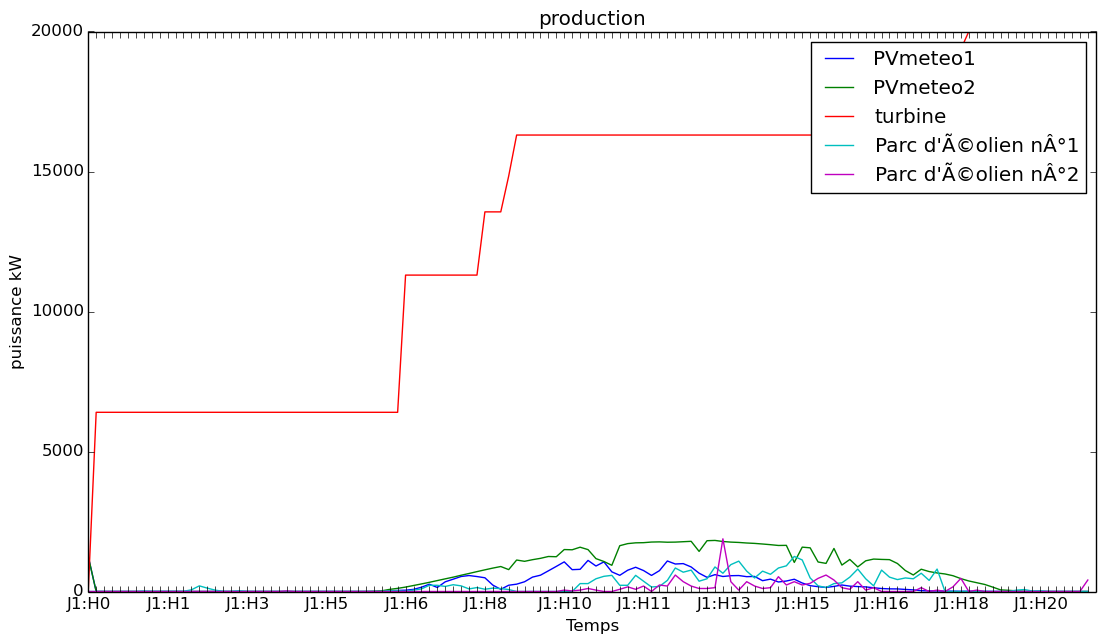
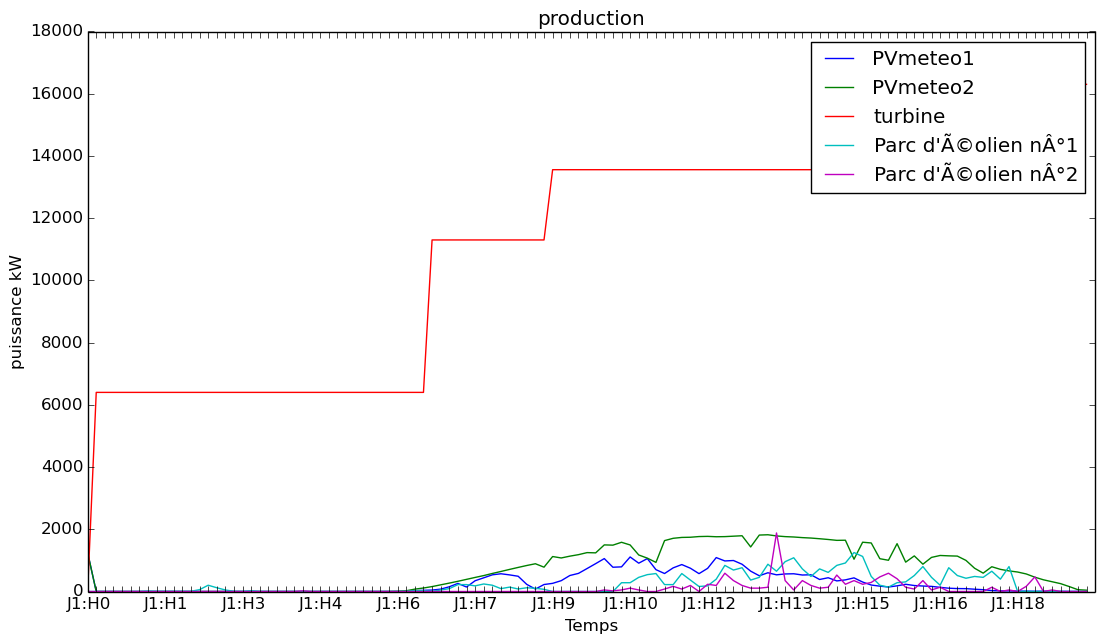
mode

diff --git a/analyseur.py b/analyseur.py
@@ -3,9 +3,9 @@ import MySQLdb
 import matplotlib.pyplot as plt
 from Ville import Ville
 from Utilitaire.heure import Utilitaire
-from numpy import where
+#from numpy import where
 from Utilitaire import Global
-from mercurial.util import interpolate
+#from mercurial.util import interpolate
 
 #nécéssite matplotlib!!!!
 
@@ -15,7 +15,7 @@ numtest=Global.numtest
 #pas pour l'affichage des légendes
 
 export=True
-affichage=True
+affichage=False
 database = MySQLdb.connect(host="localhost", user = "root", passwd = "migse", db = "Smartgrid1")
 cur = database.cursor()
 #quelle est la durée de l'expérience?
@@ -25,7 +25,6 @@ WHERE (numTest=\"{}\" AND IDObjet=0)""".format(numtest))
 
 nb=int(cur.fetchall()[0][0])
 pas=nb/12
-
 #on génère un dico des IDs
 ID = [] 
 cur.execute("SELECT * FROM ID WHERE numTest=\"{}\"".format(numtest))
@@ -51,12 +50,11 @@ WHERE (numTest=\"{}\" AND IDObjet=0)""".format(numtest))
 nb=int(cur.fetchall()[0][0])
 consigne=[[] for i in range(nb)]
 for i in range(len(ID)):
-    cur.execute("SELECT * FROM consigne WHERE (numTest=\"{}\" AND IDObjet={}) ORDER BY `consigne`.`t`".format(numtest,i))
+    cur.execute("SELECT * FROM consigne WHERE (numTest=\"{}\" AND IDObjet={}) ORDER BY `consigne`.`t` ASC ".format(numtest,i))
     j=0
     for row in cur.fetchall():
         consigne[j].append(row[3]) 
         j+=1
-
 #on a besoin de séparer les consos/prods/stocks
 ville=Ville()
 
@@ -80,8 +78,7 @@ plt.xticks(abscissea,abscisseb)
 if export==True:
     f.set_size_inches(15,15)
     f.savefig('resultats/graphNum{}IndivProd.png'.format(numtest), bbox_inches='tight')
-print [consigne[j][2] for j in range(len(etat))]
-print [etat[j][2] for j in range(len(etat))]
+
 
 f,a=plt.subplots(ville.nombreEquipementConso, sharex=True)
 for k in range(ville.nombreEquipementConso):

diff --git a/main.py b/main.py
@@ -54,7 +54,7 @@ def ind_eqpascher2(liste,consigne): #pour prod MIN !! indice de l'equipement le 
 Global.db.vide_table(numTest)
 Global.db.enregistrerID(ville.equipProduction, ville.equipConso, ville.equipStockage, numTest)
 Global.db.enregistrerEtape(ville.equipProduction, ville.equipConso, ville.equipStockage, numTest)
-Global.db.enregistrerConsigne([0 for i in range(ville.nombreEquipementProduction)], [0 for i in range(ville.nombreEquipementConso)],[0 for i in range(ville.nombreEquipementStockage)], numTest) 
+#Global.db.enregistrerConsigne([0 for i in range(ville.nombreEquipementProduction)], [0 for i in range(ville.nombreEquipementConso)],[0 for i in range(ville.nombreEquipementStockage)], numTest) 
 while Global.temps < duree-1: #boucle principale
     prod_actuelle = sum(i.activite/100.*i.PROD_MAX for i in ville.equipProduction)
     conso_future = sum(-i.production[Global.temps + 1]/100.*i.PROD_MAX for i in ville.equipConso)
@@ -182,7 +182,8 @@ while Global.temps < duree-1: #boucle principale
     Global.tempsinc()#temps+=1
     print Global.temps
     
-
+Global.tempsinc()
+Global.db.enregistrerConsigne([0 for i in range(ville.nombreEquipementProduction)], [0 for i in range(ville.nombreEquipementConso)],[0 for i in range(ville.nombreEquipementStockage)], numTest)
 print "ok!"
 if(analyseur):
     execfile("analyseur.py")

diff --git a/Utilitaire/BaseDeDonnees.py b/Utilitaire/BaseDeDonnees.py
@@ -68,7 +68,7 @@ class BaseDeDonnees:
             sql = """INSERT INTO consigne (t, IDObjet, consigne, numTest)
                      VALUES (%s, %s, %s, %s)"""
             try:
-                self.cur.execute(sql, (Global.temps, IDObjet, equipement, numTest))
+                self.cur.execute(sql, (Global.temps-1, IDObjet, equipement, numTest))
                 self.database.commit()
                 #print sql % (Global.temps, IDObjet, equipement, numTest)
                 IDObjet += 1
@@ -79,12 +79,14 @@ class BaseDeDonnees:
     def vide_table(self,numTest):
         sql = "DELETE FROM `Etat` WHERE `NumTest` =\"{}\" ".format(numTest)
         sql2 = "DELETE FROM ID WHERE `NumTest` =\"{}\"".format(numTest)
-        sql3 = "DELETE FROM consigne` WHERE `NumTest` =\"{}\"".format(numTest)
+        sql3 = "DELETE FROM `consigne` WHERE `NumTest` =\"{}\"".format(numTest)
         
         try:
             self.cur.execute(sql)
             self.database.commit()
             self.cur.execute(sql2)
+            self.database.commit()
+            self.cur.execute(sql3)
             self.database.commit()
         except Exception as e:
             self.database.rollback()
